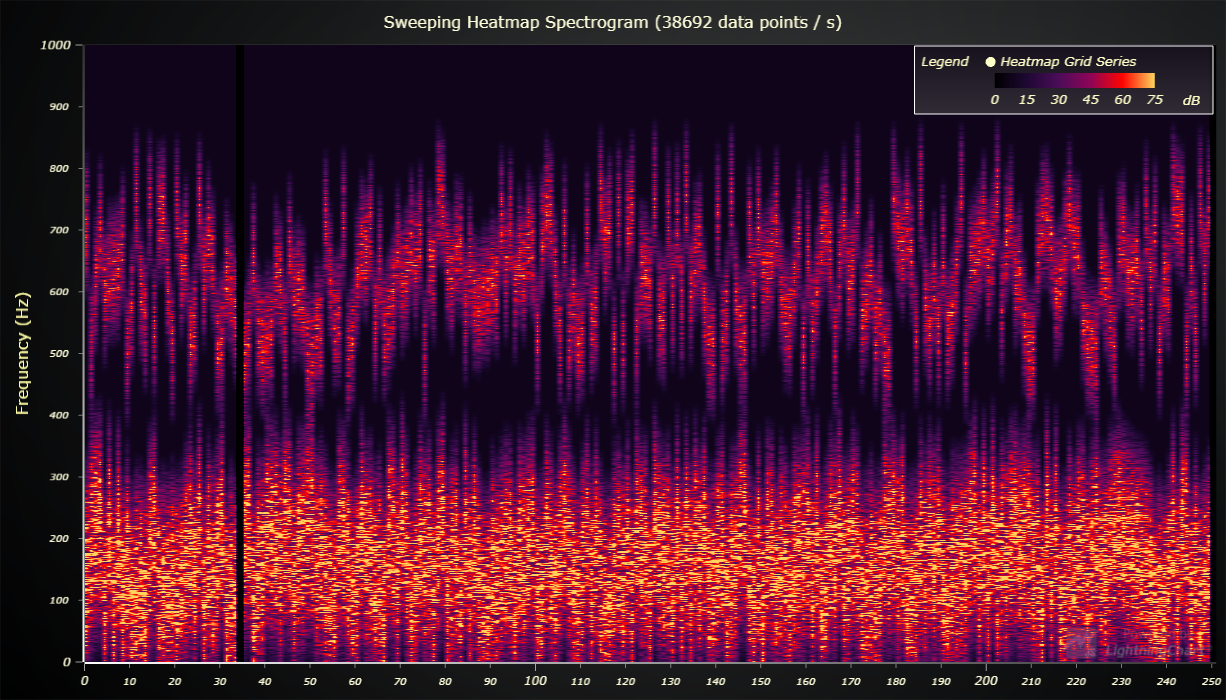
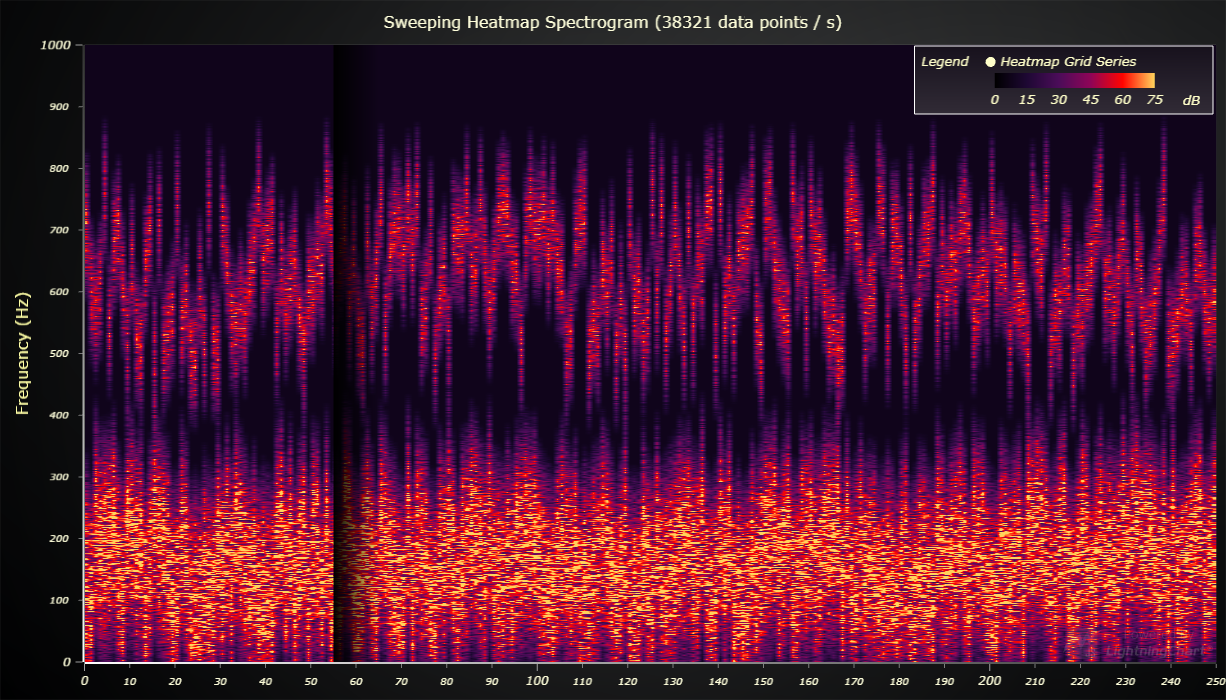
Update LCJS version

diff --git a/src/index.js b/src/index.js
@@ -12,6 +12,8 @@ const {
   ColorHSV,
   emptyLine,
   LegendBoxBuilders,
+  LinearGradientFill,
+  ColorRGBA,
   Themes,
 } = lcjs;
 
@@ -49,15 +51,27 @@ chart
   .setTitle("Frequency (Hz)")
   .setInterval(0, dataSampleSize, false, true);
 
+// Create heatmap series.
 const heatmapGridSeries = chart
   .addHeatmapGridSeries({
-    // +1 extra column is added to heatmap to prevent input data overflow.
-    columns: sweepingHistory + 1,
+    columns: sweepingHistory,
     rows: dataSampleSize,
   })
   .setFillStyle(paletteFill)
   .setWireframeStyle(emptyLine)
   .setMouseInteractions(false);
+
+// Create Band for visualizing sweeping update.
+const band = chart.getDefaultAxisX().addBand(true)
+  .setStrokeStyle(emptyLine)
+  .setFillStyle(new LinearGradientFill({
+    angle: 90,
+    stops: [
+      {offset: 0, color: ColorRGBA(0, 0, 0, 255)},
+      {offset: 1, color: ColorRGBA(0, 0, 0, 0)}
+    ]
+  }))
+  .setMouseInteractions(false)
 
 // Add LegendBox to chart.
 const legend = chart
@@ -67,12 +81,11 @@ const legend = chart
       type: 'max-width',
       maxWidth: 0.80,
   })
-  .add(chart);
+  .add(heatmapGridSeries);
 
 // Stream in sweeping data.
 let iSample = 0;
 let dataAmount = 0;
-const sweepBufferIntensityValues = new Array(dataSampleSize).fill(0);
 createSpectrumDataGenerator()
   .setSampleSize(dataSampleSize)
   // NOTE: Number of unique samples in example data.
@@ -91,8 +104,12 @@ createSpectrumDataGenerator()
     heatmapGridSeries.invalidateIntensityValues({
       iColumn: iSample % sweepingHistory,
       iRow: 0,
-      values: [sample, sweepBufferIntensityValues],
+      values: [sample],
     });
+
+    band
+      .setValueStart(iSample % sweepingHistory)
+      .setValueEnd(band.getValueStart() + 10)
 
     dataAmount += sample.length;
     iSample += 1;

diff --git a/README.md b/README.md
@@ -27,7 +27,7 @@ This behavior is preferred by some users, mostly since the chart gives real-time
 
 For alternate approach with _scrolling data appending_, see our [scrolling heatmap example](https://www.arction.com/lightningchart-js-interactive-examples/examples/lcjs-example-0803-scrollingHeatmap.html).
 
-Scrolling approach is generally encouraged since it interacts much nicer with _scrolling Axis ticks_, which as can be seen from the scrolling heatmap example looks really nice with _live data_.
+Scrolling approach is generally encouraged since it interacts much nicer with _scrolling Axis ticks_, which as can be seen from the scrolling heatmap example - looks really nice with _live data_!
 
 Performance-wise there is not much difference between the two - both operations are optimized to the maximum!
 
@@ -66,7 +66,7 @@ Direct developer email support can be purchased through a [Support Plan][4] or b
 © Arction Ltd 2009-2020. All rights reserved.
 
 
-[Scrolling Heatmap Grid Series]: https://www.arction.com/lightningchart-js-api-documentation/v3.1.0/
+[Scrolling Heatmap Grid Series]: https://www.arction.com/lightningchart-js-api-documentation/v3.1.0/classes/heatmapscrollinggridseriesintensityvalues.html
 [Paletted Fill Style]: https://www.arction.com/lightningchart-js-api-documentation/v3.1.0/classes/palettedfill.html
 [Color lookup table]: https://www.arction.com/lightningchart-js-api-documentation/v3.1.0/classes/lut.html
 [Color factory HSV]: https://www.arction.com/lightningchart-js-api-documentation/v3.1.0/globals.html#colorhsv
